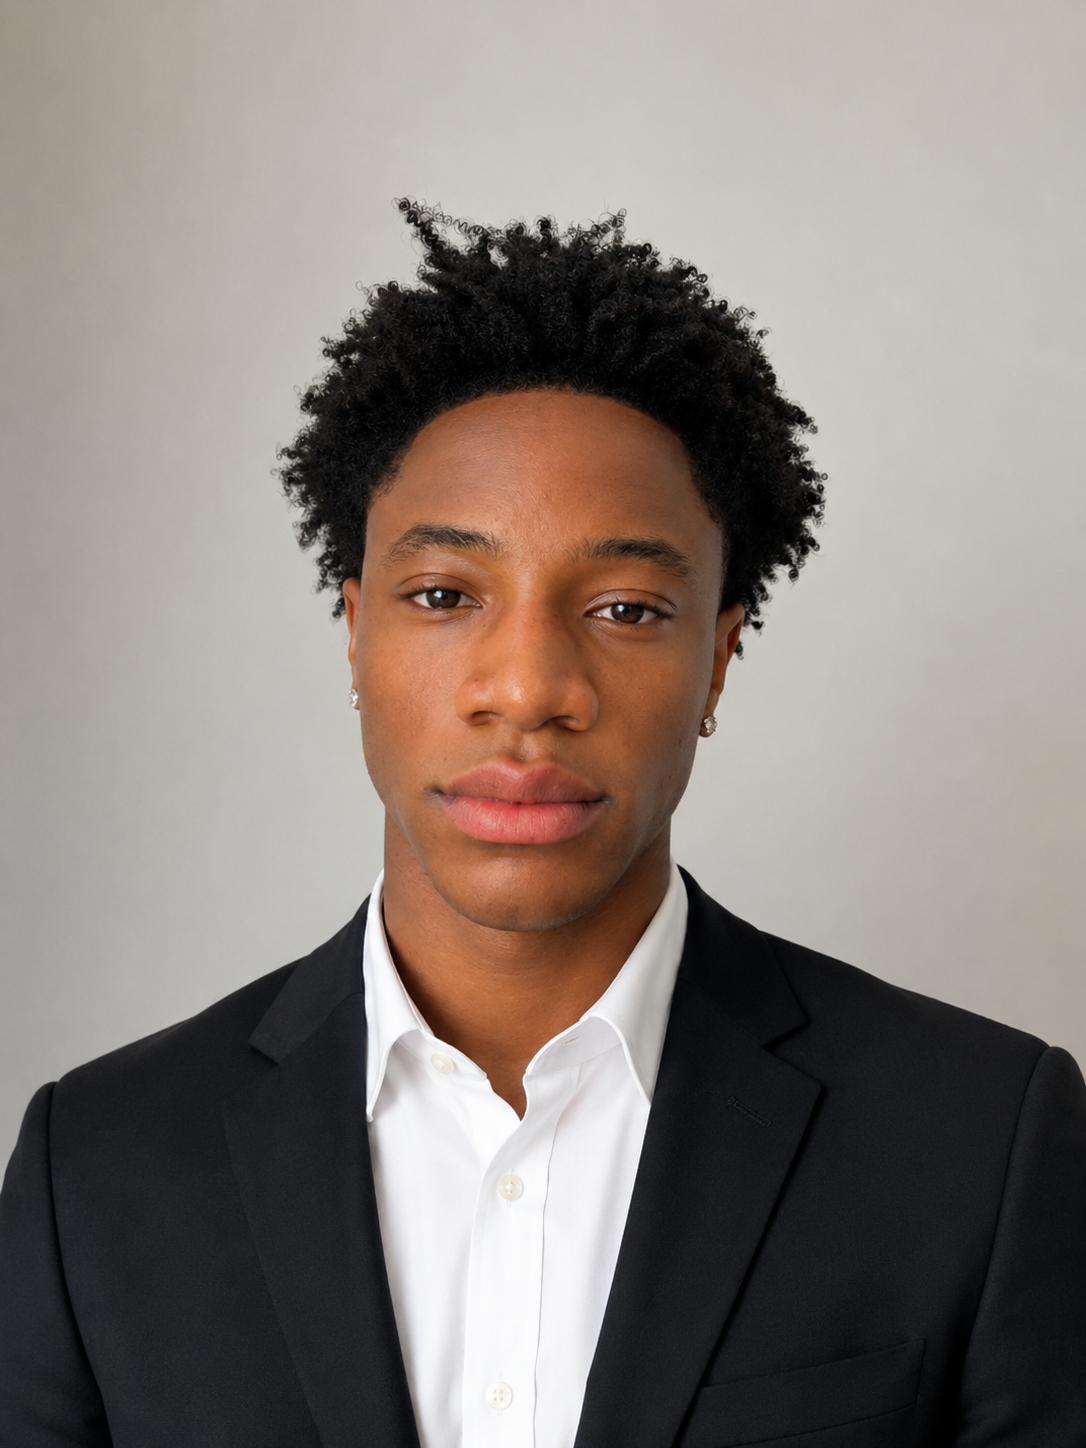
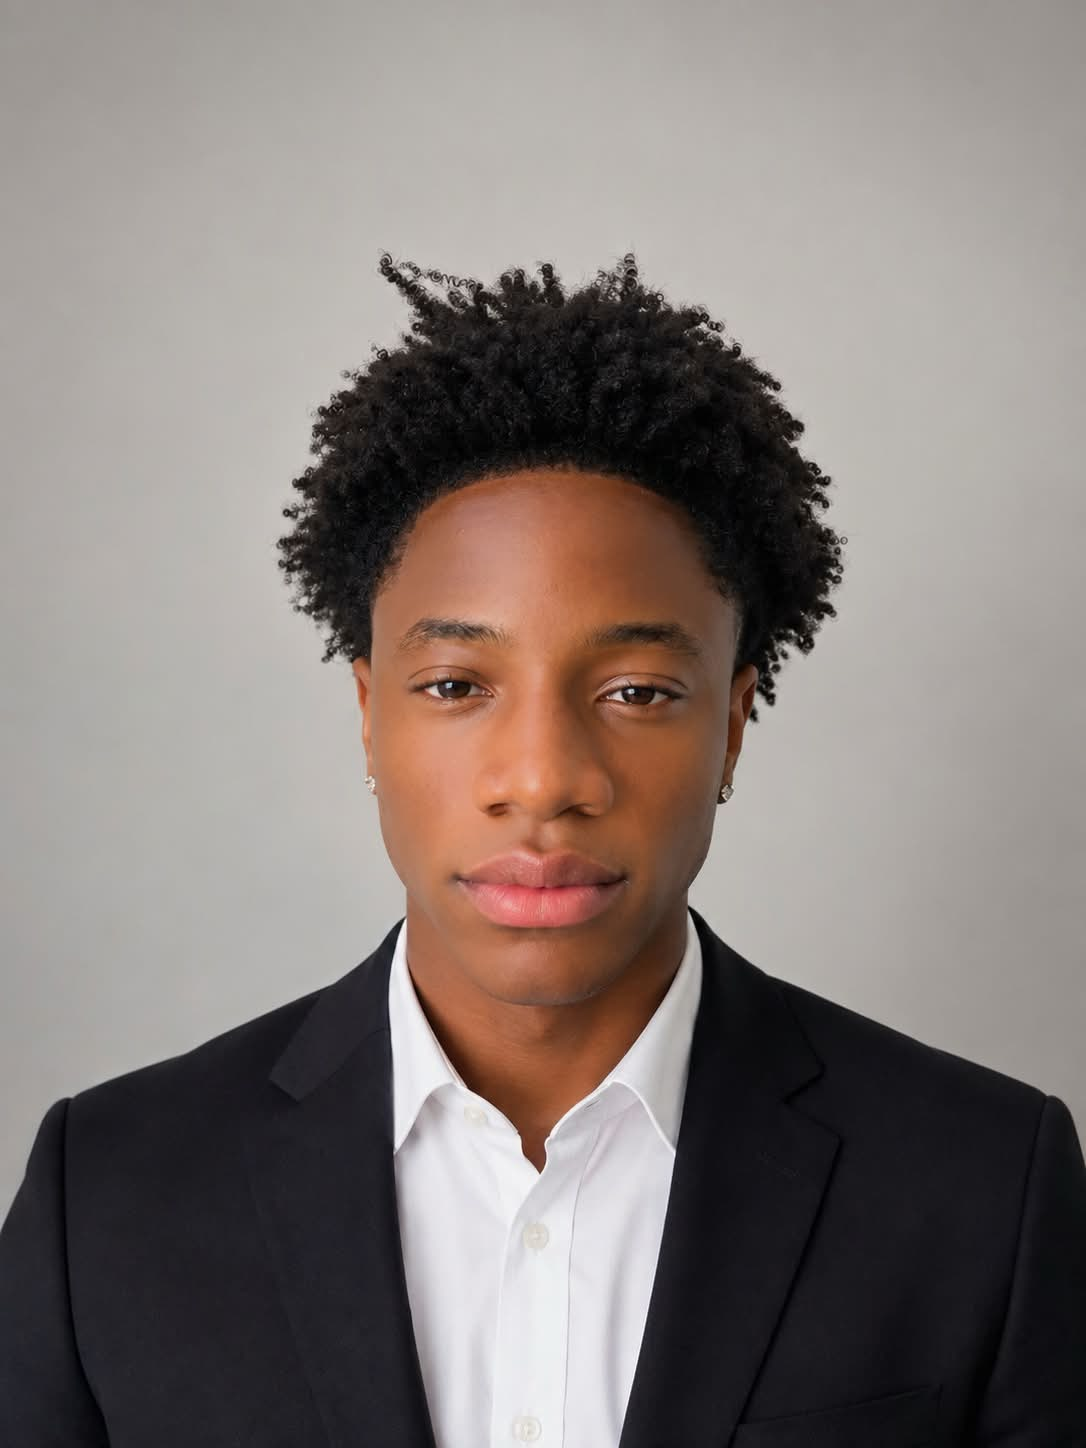
Midlertidig fjernet se mer knapp og la til interesser kort

diff --git a/js/script.js b/js/script.js
@@ -1,6 +1,6 @@
 var navn = [
-    "Efe Kaan Eksi", 
-    "Hildiddy Musse", 
+    "Efe Kaan Eksi",
+    "Hildiddy Musse",
     "Madalitso Phiri Skjelnes",
     "Marion Rasmussen",
     "Dennis Tea",
@@ -22,6 +22,15 @@ var roles = [
     ""
 ];
 
+var cardText = [
+    "Interesse for frontend, webdesign og UX",
+    "Interesse for frontend, akademisk skriving og UX",
+    "Interesse for fullstack utvikling og sikkerhet",
+    "Interesse for design, skriving og sikkerhet",
+    "Interesse for frontendutvikling og design",
+    "Interesse for fullstack utvikling og UX"
+];
+
 var cardSection = document.getElementById("card-section");
 var cardRow = document.createElement('div');
 cardRow.className = "card-row";
@@ -29,14 +38,14 @@ cardSection.append(cardRow);
 
 
 
-for(var i = 0; i < navn.length; i+=1){
+for (var i = 0; i < navn.length; i += 1) {
     var role = roles[i] || "";
-    var card = createCard(navn[i], images[i], role);
+    var card = createCard(navn[i], images[i], role, cardText[i]);
 
     cardRow.append(card);
 }
 
-function createCard(name, image, role){
+function createCard(name, image, role, text) {
     // Card container
     var card = document.createElement("div");
     card.className = "card mb-3 team-card";
@@ -60,7 +69,7 @@ function createCard(name, image, role){
     img.className = "rounded-start";
     img.id = 'image-' + `${image}`;
     div3.append(img)
-    
+
     // Col
     var div4 = document.createElement("div");
     div4.className = "col-md-8";
@@ -74,19 +83,24 @@ function createCard(name, image, role){
     var cardTitle = document.createElement("h5");
     cardTitle.className = "card-title";
     cardTitle.textContent = `${name}`;
-    
+
+    var cardRole = document.createElement("p");
+    cardRole.className = "card-role";
+    cardRole.textContent = role;
+
     var cardText = document.createElement("p");
     cardText.className = "card-text";
-    cardText.textContent = role;
+    cardText.textContent = text;
 
-    var detailsBtn = document.createElement('a');
-    detailsBtn.className = "btn btn-accent";
-    detailsBtn.textContent = "Se mer";
-    detailsBtn.id = 'btn-' + `${image}`;
+    // var detailsBtn = document.createElement('a');
+    // detailsBtn.className = "btn btn-accent";
+    // detailsBtn.textContent = "Se mer";
+    // detailsBtn.id = 'btn-' + `${image}`;
 
     cardBody.append(cardTitle);
+    cardBody.append(cardRole);
     cardBody.append(cardText);
-    cardBody.append(detailsBtn);
+    // cardBody.append(detailsBtn);
 
     return card;
 }

diff --git a/styles/index.css b/styles/index.css
@@ -209,9 +209,15 @@ body {
     letter-spacing: 0.03em;
 }
 
-.team-card .card-text {
+.team-card .card-role {
     color: var(--accent);
     font-weight: 600;
+    font-size: 0.85rem;
+}
+
+.team-card .card-text {
+    color: #333;
+    font-weight: 400;
     font-size: 0.85rem;
 }
 
